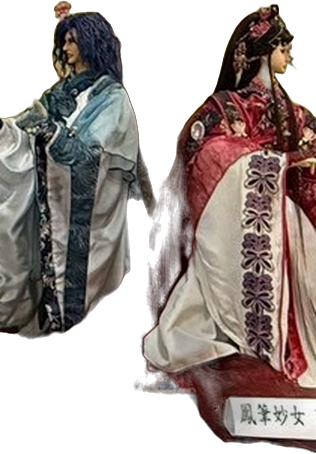
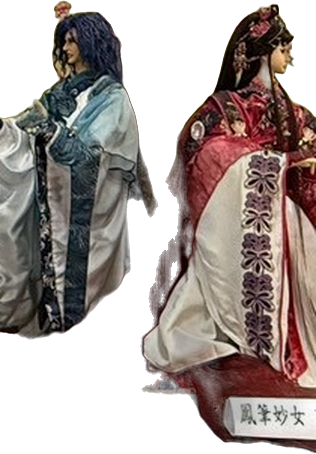
Remove stray cutout fragments; soften puppet relief
Claude-Session: https://claude.ai/code/session_01D1vdwhGaZ3uYrHqVPJgMcJ

diff --git a/index.html b/index.html
@@ -139,7 +139,7 @@ let pending = 0;
 function tex(url) { pending++; const t = loader.load(url, () => { pending--; dirty = true; }, undefined, () => { pending--; }); t.encoding = THREE.sRGBEncoding; t.anisotropy = 4; return t; }
 function canvasTex(w, h, draw) { const c = document.createElement('canvas'); c.width = w; c.height = h; draw(c.getContext('2d'), w, h); const t = new THREE.CanvasTexture(c); t.encoding = THREE.sRGBEncoding; t.anisotropy = 4; return t; }
 function texL(url) { pending++; return loader.load(url, () => { pending--; dirty = true; }, undefined, () => { pending--; }); }
-const relief = f => ({ displacementMap: texL(f + '_d.png'), displacementScale: 0.26, normalMap: texL(f + '_n.png'), normalScale: new THREE.Vector2(0.9, 0.9) });
+const relief = f => ({ displacementMap: texL(f + '_d.png'), displacementScale: 0.13, normalMap: texL(f + '_n.png'), normalScale: new THREE.Vector2(0.9, 0.9) });
 const std = o => new THREE.MeshStandardMaterial(Object.assign({ roughness: 0.95, metalness: 0 }, o));
 function box(w, h, d, mat, x, y, z) { const m = new THREE.Mesh(new THREE.BoxGeometry(w, h, d), mat); m.position.set(x, y, z); scene.add(m); return m; }
 function plane(w, h, mat, x, y, z) { const m = new THREE.Mesh(new THREE.PlaneGeometry(w, h), mat); m.position.set(x, y, z); scene.add(m); return m; }
@@ -265,7 +265,7 @@ function update() {
   boardLamp.rotation.x = -0.9 * v.tg;
   darkPanel.material.opacity = v.tb; darkPanel.visible = v.tb > 0.01; banner.visible = v.tb < 0.985;
   acrM.opacity = 0.16 * v.ta; edgeM.opacity = 0.9 * v.ta;
-  const yaw = Math.atan2(camera.position.x, camera.position.z - TZ) * 0.2;
+  const yaw = Math.atan2(camera.position.x, camera.position.z - TZ) * 0.42;
   for (const p of PUPPETS) {
     const keep = p.slot !== undefined;
     const k = keep ? 1 : 1 - tr;                       // puppets taken off display shrink away
